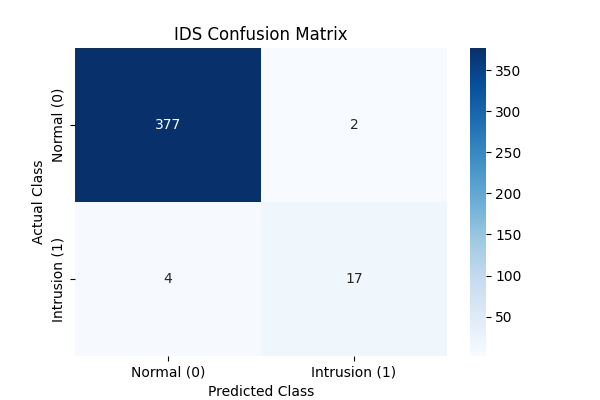
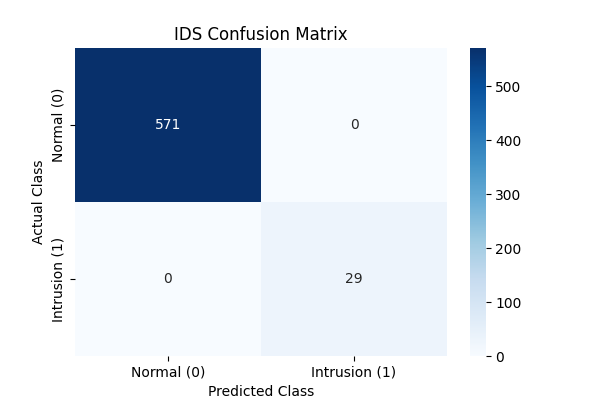
Implemented feature augmentation, L2 regularization, and integrated confusion matrix.

diff --git a/src/ids_model.py b/src/ids_model.py
@@ -2,38 +2,50 @@ import numpy as np
 import pandas as pd
 import matplotlib.pyplot as plt
 import seaborn as sns 
+import datetime
 from sklearn.model_selection import train_test_split
 from sklearn.preprocessing import StandardScaler
 from sklearn.metrics import confusion_matrix
 from tensorflow.keras.models import Sequential
 from tensorflow.keras.layers import Dense, Dropout
+from tensorflow.keras import regularizers
 
 
 IMBALANCE_RATIO = 0.05 # 5% intrusion, 95% normal
-num_samples = 2000 
-num_features = 6
+num_samples = 3000 
+num_features_raw = 6
+LOOKBACK_STEPS = 20
+num_features = num_features_raw + 1
 
-# generate normal data
-num_normal = int(num_samples * (1 - IMBALANCE_RATIO))
+simulation_history_buffer = np.zeros(LOOKBACK_STEPS)
 
-# using normal distribution (Gaussian) for realism
-# features clustered around mean (loc) with low variance (scale)
-X_normal = np.random.normal(loc=0.5, scale=0.1, size=(num_normal, num_features))
-y_normal = np.zeros(num_normal)
-
-# intrusion data
+# generate time-ordered data
+num_normal = int(num_samples *  (1 - IMBALANCE_RATIO))
 num_intrusion = num_samples - num_normal
 
-# creating anomalies by increasing variance
-# shift in feature-specific readings
-X_intrusion = np.random.normal(loc=0.7, scale=0.15, size=(num_intrusion, num_features))
-y_intrusion = np.ones(num_intrusion)
+X_base_normal = np.random.normal(loc=0.5, scale=0.1, size=(num_normal, num_features_raw))
+X_base_intrusion =  np.random.normal(loc=0.8, scale=0.15, size=(num_intrusion, num_features_raw))
 
-# combine and shuffle dataset
-X = np.vstack((X_normal, X_intrusion))
-y = np.hstack((y_normal, y_intrusion))
+X_time_ordered = np.vstack((X_base_normal, X_base_intrusion))
+y_time_ordered = np.hstack((np.zeros(num_normal), np.ones(num_intrusion)))
 
-# shuffle data to make sure test splits are random
+# calculate P_avg (historical augmenting)
+P_avg_list = []
+history_buffer = np.zeros(LOOKBACK_STEPS)
+
+for i in range(num_samples):
+    P_avg_val = history_buffer.mean()
+    P_avg_list.append(P_avg_val)
+
+    history_buffer = np.roll(history_buffer, -1)
+    history_buffer[-1] = y_time_ordered[i]
+
+P_avg_feature = np.array(P_avg_list).reshape(-1, 1)
+
+# combine + last shuffle
+X = np.hstack((X_time_ordered, P_avg_feature))
+y = y_time_ordered
+
 indices = np.arange(num_samples)
 np.random.shuffle(indices)
 X = X[indices]
@@ -58,9 +70,11 @@ class_weight = {0: weight_for_0, 1: weight_for_1}
 print(f"Calculated Class Weights: {class_weight}")
 
 model = Sequential([
-    Dense(64, activation='relu', input_shape=(num_features,)),
+    Dense(64, activation='relu', input_shape=(num_features,),
+          kernel_regularizer=regularizers.l2(0.001)),
     Dropout(0.2),
-    Dense(32, activation='relu'),
+    Dense(32, activation='relu', 
+          kernel_regularizer=regularizers.l2(0.001)),
     Dropout(0.2),
     Dense(16, activation='relu'),
     Dense(8, activation='relu'),
@@ -92,19 +106,34 @@ print(f"Recall (Detection Rate): {intrusion_recall:.4f}")
 print(f"Precision (Alert Reliability): {intrusion_precision:.4f}")
 print(f"F1-Score: {intrusion_f1:.4f}")
 
-
+# intrusion detection simulation with logging
 def detect_intrusion(sample):
-    """Simulate real-time intrusion detection"""
-    sample_scaled = scaler.transform([sample])
-    prediction = model.predict(sample_scaled)[0][0]
+    global simulation_history_buffer
+    P_avg_current = simulation_history_buffer.mean()
+
+    # augment the sample
+    sample_augmented = np.append(sample, P_avg_current)
+    sample_scaled = scaler.transform([sample_augmented])
+
+    # prediction
+    prediction = model.predict(sample_scaled, verbose=0)[0][0]
+    timestamp = datetime.datetime.now().strftime("%Y-%m-%d %H:%M:%S")
+
+    # updating buffer with the new prediction
+    simulation_history_buffer = np.roll(simulation_history_buffer, -1)
+    simulation_history_buffer[-1] = prediction
+
     if prediction > 0.30:
-        print(f"ALERT: Intrusion detected (Confidence: {prediction:.2f})")
+        alert_message = f"[{timestamp}] ALERT: Intrusion detected (Confidence: {prediction:.2f})."
+        with open("intrusion_log.txt", "a") as f:
+            f.write(alert_message + "\n")
+        print(alert_message)
     else:
         print(f"Normal activity. (Confidence: {1 - prediction:.2f})")
 
 print("\n*** REAL-TIME SIMULATION ***")
 for _ in range(5):
-    random_event = np.random.rand(num_features)
+    random_event = np.random.rand(num_features_raw)
     detect_intrusion(random_event)
 
 # for visualizing/generating the confusion matrix
